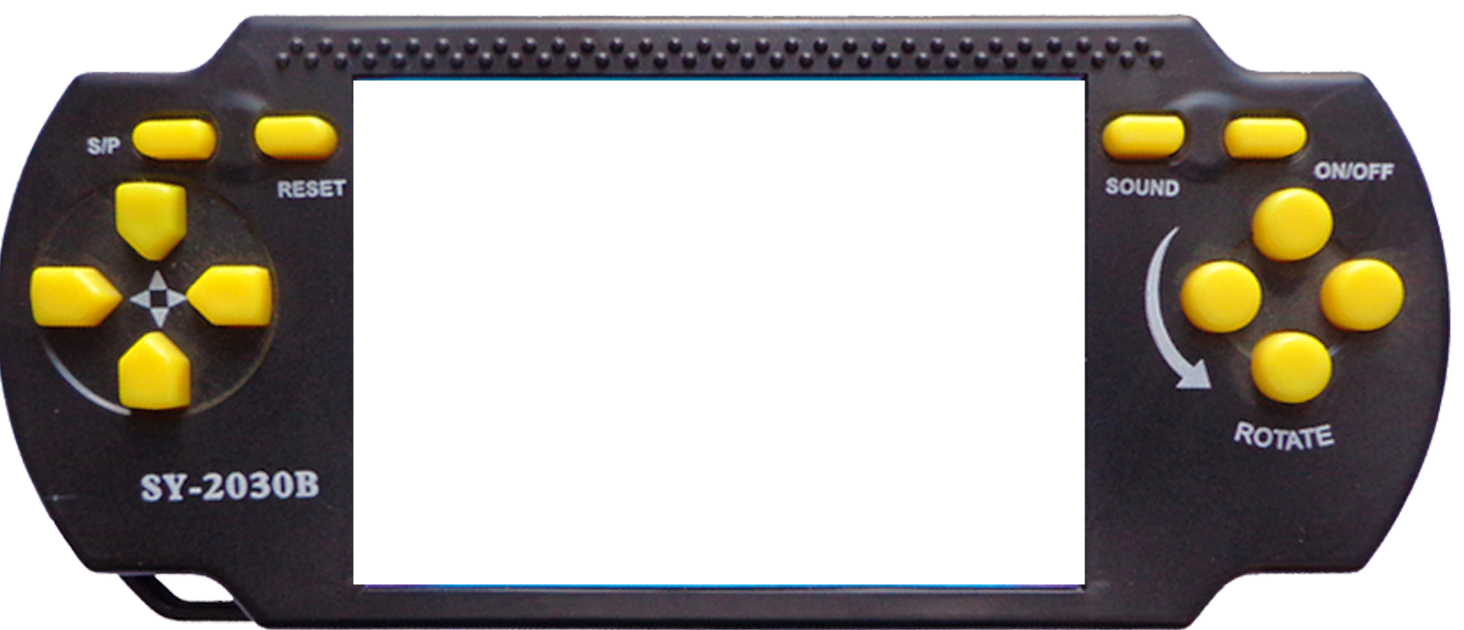
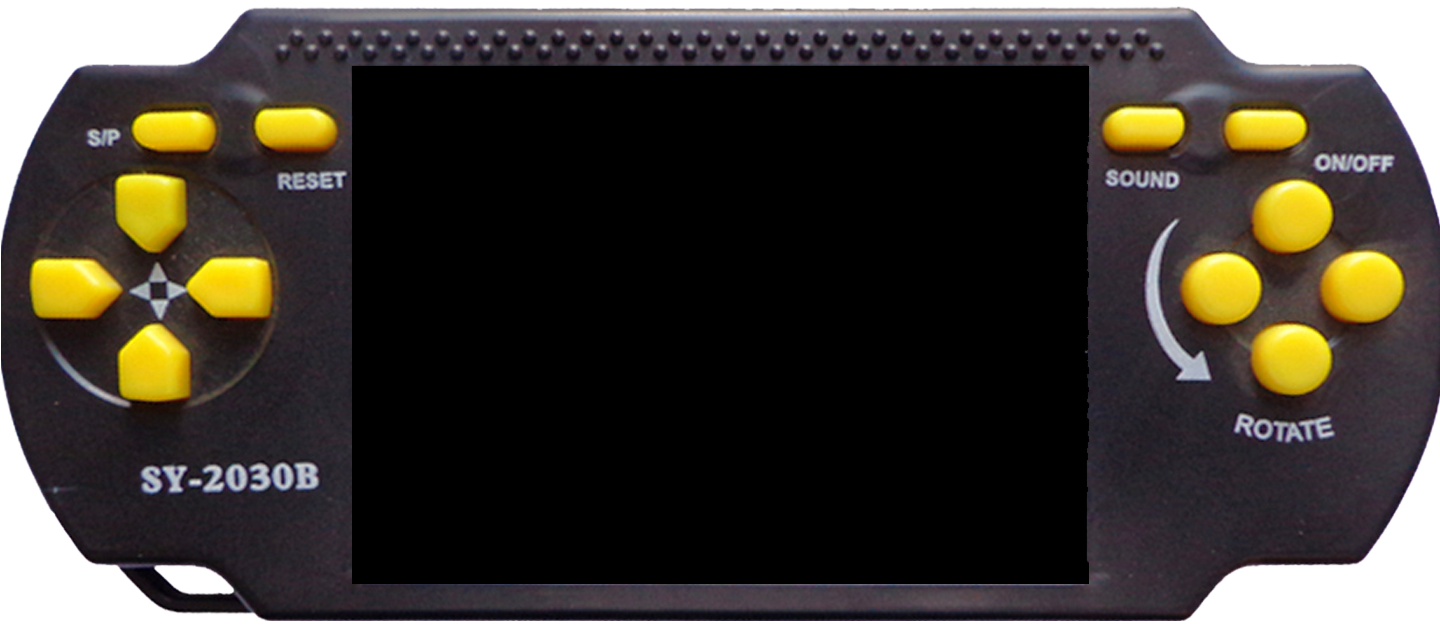
Refined Play Area

diff --git a/src/App.css b/src/App.css
@@ -1,16 +1,16 @@
 @import url('https://fonts.googleapis.com/css2?family=Press+Start+2P&display=swap');
 body {
-	background: white;
+	background: black;
 	font-family: 'Press Start 2P', cursive;
 }
 .playArea {
-    background-color: #92C401;
+    background-color: #93c4014d;
     border: 2px solid grey;
-    width: 595px;
-    height: 410px;
+    width: 599px;
+    height: 418px;
     position: fixed;
-    top: 52%;
-    left: 49.25%;
+    top: 51%;
+    left: 50%;
     transform: translate(-50%, -50%);
 }
 
